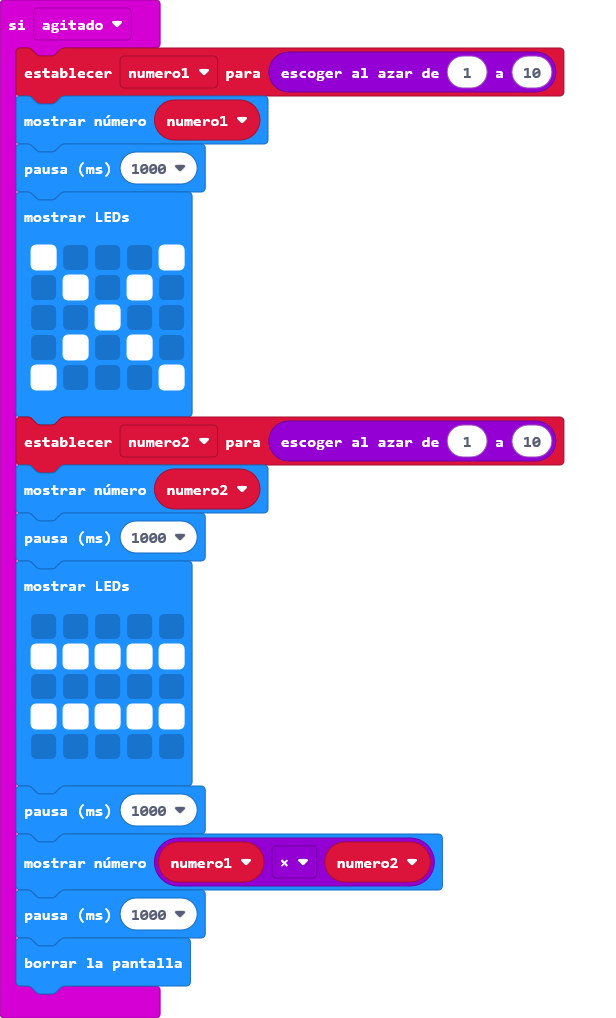
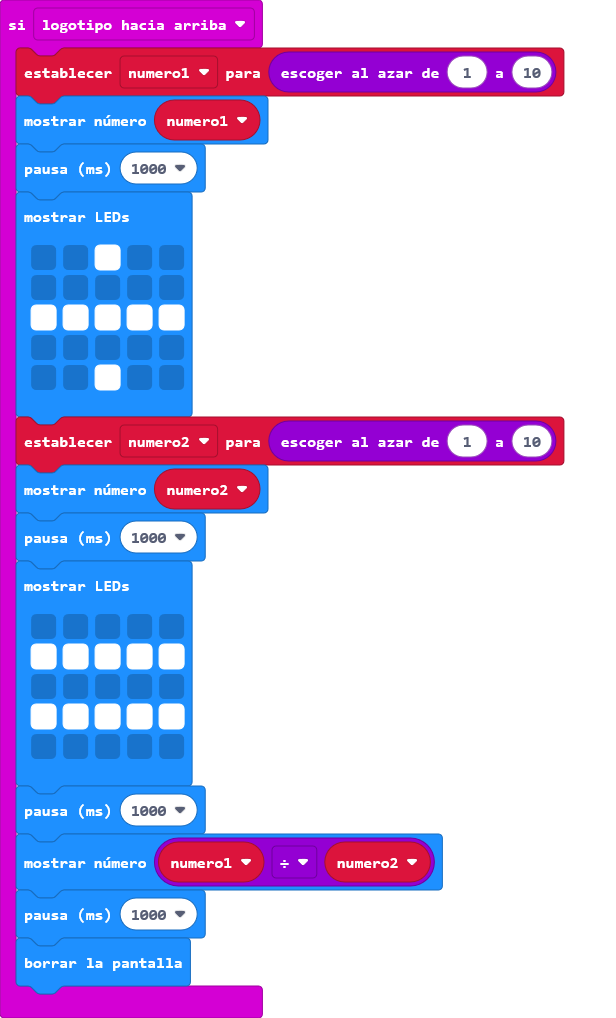
Actualizar main.blocks, main.ts

Changed region(s): [[0.0308, 0.2132, 0.3084, 0.3959], [0.0617, 0.0, 0.4318, 0.0609], [0.2468, 0.944, 0.4318, 1.0]]

diff --git a/main.ts b/main.ts
@@ -1,5 +1,31 @@
 let numero1 = 0
 let numero2 = 0
+input.onGesture(Gesture.LogoUp, function () {
+    numero1 = randint(1, 10)
+    basic.showNumber(numero1)
+    basic.pause(1000)
+    basic.showLeds(`
+        . . # . .
+        . . . . .
+        # # # # #
+        . . . . .
+        . . # . .
+        `)
+    numero2 = randint(1, 10)
+    basic.showNumber(numero2)
+    basic.pause(1000)
+    basic.showLeds(`
+        . . . . .
+        # # # # #
+        . . . . .
+        # # # # #
+        . . . . .
+        `)
+    basic.pause(1000)
+    basic.showNumber(numero1 / numero2)
+    basic.pause(1000)
+    basic.clearScreen()
+})
 input.onButtonPressed(Button.A, function () {
     numero1 = randint(1, 10)
     basic.showNumber(numero1)
